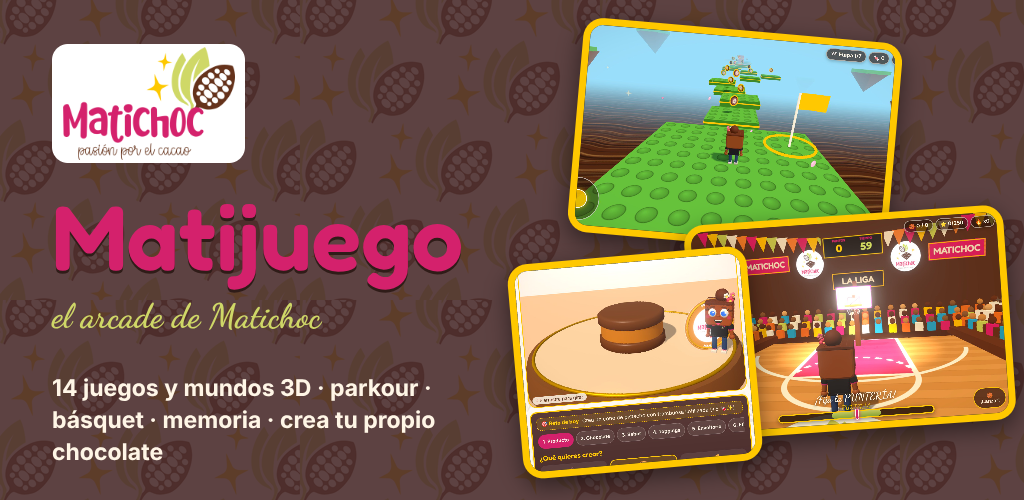
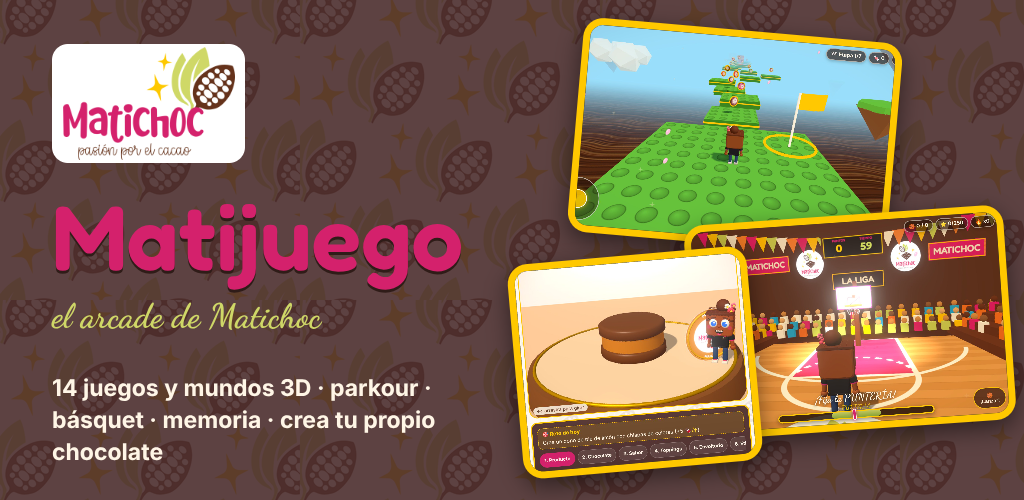
Ficha: capturas y gráfico renovados desde la variante app; bitácora con la regresión completa (30/30) y matiweb #54

diff --git a/docs/BITACORA.md b/docs/BITACORA.md
@@ -69,6 +69,18 @@ Registro de todo lo que se cambia, se decide y se prueba: lo más reciente arrib
 - La cocina de Crea tu Chocolate: **44 dibujos** y 6.000 triángulos (menos que la vista de diseño, que usa 197).
 - Como referencia, Choco Match, que anda bien en su celular, usa 835 dibujos y 106.000 triángulos.
 
+**Pruebas** (todas contra la variante app, salvo que se diga):
+- **Nuevas:** `porristas-rutina.cjs` (una jugadora perfecta gana con 3 estrellas y la pirámide; sin tocar se pierden los 3 ❤; tocar sin parar no sirve), `creador-cocina.cjs` (la cocina completa con el mouse; se desbloquea el chocolate rosa; no se gastan Matipuntos), `aventura-3d.cjs` (cámara, tres cuartos, estirarse, aplastarse y girar), `semanal-logica.mjs` (17), `parkour-escalar.cjs` y `fichas.cjs`. `visitas.cjs` se amplió a 85 revisiones.
+- **Regresión completa, todo en verde (30 de 30):**
+  - Lógica: aventura, deportes, merge, puzzles y semanal.
+  - Navegador: juegos (15/15, sin conexiones externas), pueblo, contraste, interactivo, lago, puertas-toque, ciudad-barrios, ciudad-diaria, aventura, temporada, album, perfiles, visitas, mascota, fichas, parkour-escalar, porristas-rutina, creador-cocina, aventura-3d, deportes, merge, atras, legal, enlaces y respaldo-nativo.
+- `enlaces.cjs` ahora termina la cocina para llegar al resultado de Crea tu Chocolate (en la app no hay botón de WhatsApp; en la web sí).
+- **Capturas de la ficha renovadas** (`store/screenshots/*` y `store/feature-graphic.png`), porque Porristas y Crea tu Chocolate cambiaron. Se tomaron desde la variante app con la fecha del aparato en junio (`QA_FECHA`), para que no salga la decoración de Halloween. El único aviso de consola es el del reloj simulado de las pruebas, que no es del juego.
+
+**Copia web:** Matichoc/matiweb#54 (`1d2ddad`), probada contra la demo:
+- Pasaron porristas-rutina, creador-cocina, aventura-3d, visitas, fichas, parkour-escalar, mascota, interactivo, puertas-toque, legal y enlaces.
+- juegos: 15 de 16. Falla Choco Blaster, el mismo fallo conocido de la web.
+
 ## 2026-10-28
 
 ### Política pública comprobada
